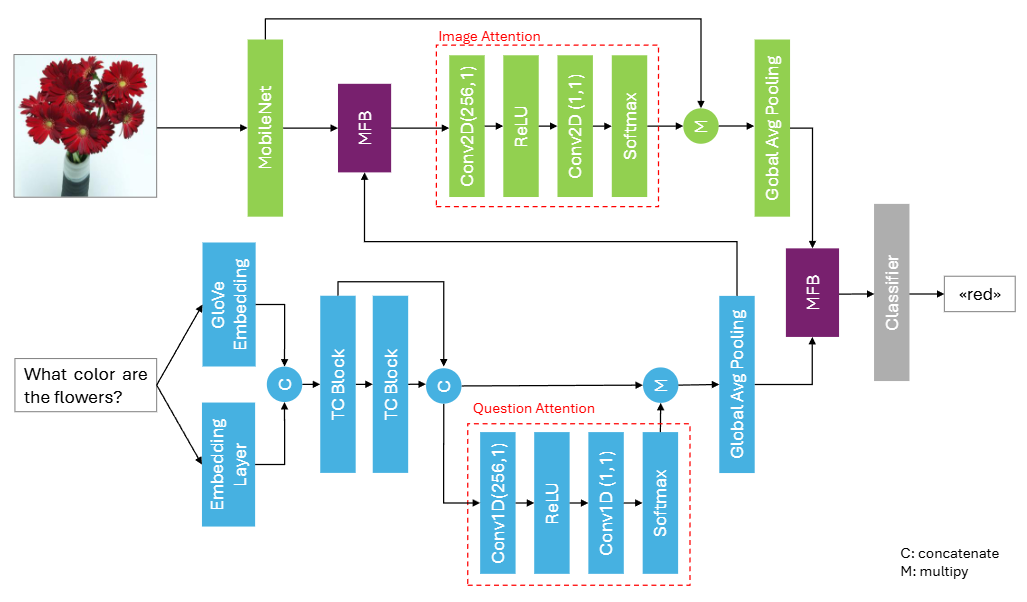
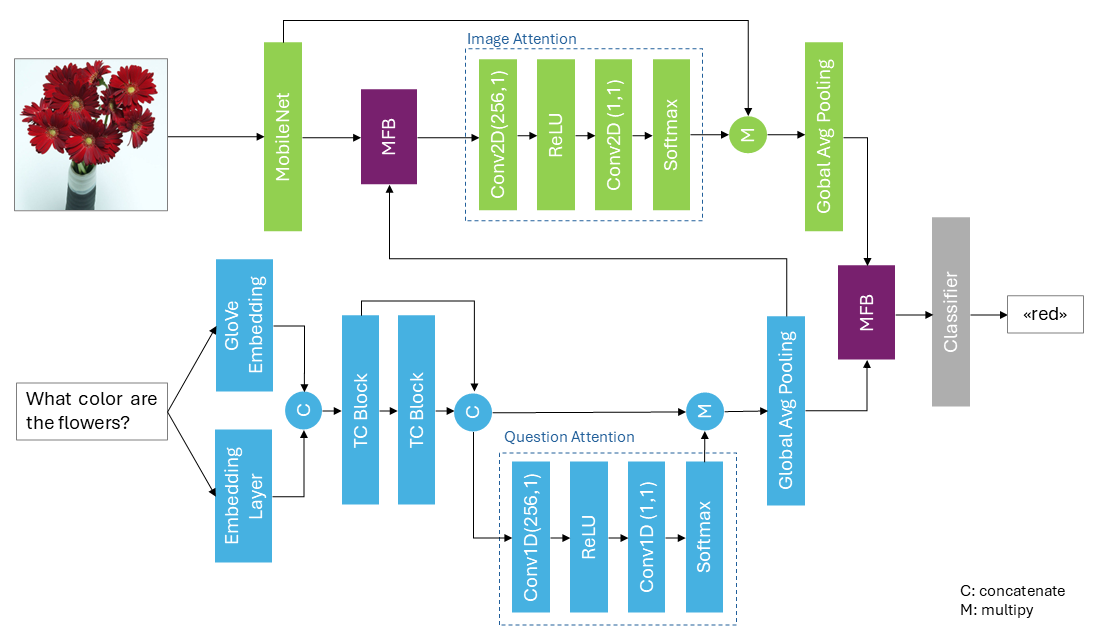
updated tutorial readme

diff --git a/README.md b/README.md
@@ -2,18 +2,19 @@
 
 ## 1. Introduction
 
-This repository provides a hands-on tutorial that shows you how to design, train, and evaluate **Visual Question Answering (VQA)** models for **resource-constrained edge devices**, specifically the **STM32MP2 platform**.
+This repository provides a hands-on tutorial that shows you how to design, train, and evaluate **Visual Question Answering (VQA)** models for **resource-constrained edge devices**, specifically the **STM32MP2 MPU**.
 
 **VQA** is a task at the intersection of computer vision and natural language processing: given an **image** and a **natural language question** about it, the model must generate the correct **answer**. VQA has many real-world applications, such as accessibility tools for visually impaired users and smart assistants that understand visual content. However, most state-of-the-art VQA models are **large and resource-hungry**, making them unsuitable for **edge devices**.
 
-The models in this tutorial are implemented in Keras, optimized for TensorFlow Lite, and designed to leverage the STM32MP2 NPU for efficient inference.
+The models in this tutorial are implemented in Keras 3.9, optimized for TensorFlow Lite, and designed to leverage the STM32MP2 NPU for efficient inference.
 
 This README is structured as follows:
 
 - [**Section 2**](#2-quickstart): Quickstart (inference in 3 steps)
 - [**Section 3**](#3-tutorial-vqa-on-edge-devices): Tutorial (models, dataset, training and evaluation)
 - [**Section 4**](#4-usage-guide): Usage Guide
-- [**Section 5**](#5-configuration-and-advanced-options): Configuration and Advanced Options
+- [**Section 5**](#5-performance-testing-on-stm32mp2): Performance Testing on STM32MP2
+- [**Section 6**](#6-configuration-and-advanced-options): Configuration and Advanced Options
 
 ---
 
@@ -26,14 +27,23 @@ This README is structured as follows:
 
 ## 2. Quickstart
 
-Try inference in 3 steps with the MFB + Attention pre-trained modelS:
+Try inference in 3 steps with the MFB + Attention pre-trained models:
 
 1. Clone the repo and install dependencies
+
+(Optional) create a separate Conda environment:
+
+```bash
+conda create --name tutorialVQAenv python=3.9
+conda activate VQAenv
+pip install --upgrade pip
+```
 
 ```bash
 git clone https://github.com/GloriaGio/vqa-stm32mp2.git
 cd vqa-stm32mp2
 pip install -r requirements.txt
+mkdir vqa_dataset resources
 ```
 
 2. Download a pretrained model (MFB + Attention)
@@ -45,9 +55,19 @@ unzip outputs/MFBAttention.zip -d outputs/
 
 3. Run inference on a sample image
 
+<p align="center">
+<img src="Images/COCO_val2014_000000002006.jpg" alt="SampleImage" width="330"/>
+</p>
+
+_Figure 1. Sample image from the VQAv2 validation set._
+
 ```bash
 python inference.py --model-dir MFBAttention --question "What is this?" --image-path ./Images/COCO_val2014_000000002006.jpg
 ```
+
+- Expected answer: `bus`
+- **Change the question:** replace the text after --question with your own question (for example: `"What color is the vehicle?"` -> `purple`, `"Which country is this?"` -> `england`, `"How many people are there?"` -> `2`).
+- **Change the image:** replace the path after --image-path with the path to your desired image.
 
 ### 2.1 Repository Structure
 
@@ -76,9 +96,9 @@ vqa-stm32mp2/
 
 ### 3.1 Model Architectures
 
-The implemented models are based on the architectures proposed by [**Yu et al. (2017)**](https://openaccess.thecvf.com/content_iccv_2017/html/Yu_Multi-Modal_Factorized_Bilinear_ICCV_2017_paper.html): **MFB Baseline**, **MFB + Attention**, **MFB + CoAttention**
+The implemented models are based on the architectures proposed by [**Yu et al. (2017)**](https://openaccess.thecvf.com/content_iccv_2017/html/Yu_Multi-Modal_Factorized_Bilinear_ICCV_2017_paper.html): **MFB Baseline**, **MFB + Attention**, **MFB + CoAttention**. These models use MFB (Multi-modal Factorized Bilinear pooling) to fuse visual and textual features, exploring different strategies to integrate attention.
 
-The original architectures were modified to run efficiently on the STM32MP2 platform, taking advantage of its NPU:
+The original architectures were modified to run efficiently on the STM32MP2 MPU, taking advantage of its NPU:
 
 - **ResNet-152 → MobileNet V3 Large**
   - Lighter, optimized for edge devices.
@@ -91,12 +111,12 @@ The original architectures were modified to run efficiently on the STM32MP2 plat
 
 Additional improvements:
 
-- **Word embeddings**: concatenation of **pretrained GloVe embeddings** and **learned embeddings**
+- **Word embeddings**: concatenation of **pretrained GloVe embeddings** (Global Vectors for Word Representation, a method to capture semantic meaning of words; [learn more](https://nlp.stanford.edu/projects/glove/)) and **learned embeddings**
   - Introduced to improve semantic representation and boost model performance.
 
 ![MFBCoAttention Architecture](Images/MFBCoAttention.png)
 
-_Figure 2. Optimized **MFB with Co-Attention network**. The **MFB with Attention** and **MFB Baseline** variants are derived by removing, respectively, the question attention block, and both the question and image attention blocks along with the first MFB module._
+_Figure 2. This figure shows the optimized **MFB with Co-Attention network**. The **MFB with Attention** variant is obtained by removing the question attention block from this architecture. The **MFB Baseline** variant is obtained by removing both the question and image attention block and the first MFB module._
 
 The folder `models/` contains the file `vqa_models.py`, which defines the implemented model architectures:
 
@@ -104,12 +124,20 @@ The folder `models/` contains the file `vqa_models.py`, which defines the implem
 - `MFB_Attention(...)`: Keras implementation of the modified **MFB + Attention** model.
 - `MFB_CoAttention(...)`: Keras implementation of the modified **MFB + CoAttention** model.
 
-Each function returns a complete **Keras model** (`tf.keras.Model`), with layers and parameters defined based on the provided configuration. These functions show the **exact Keras implementation** of each model.
+Each function returns a complete **Keras model** (`tf.keras.Model`), with layers and parameters defined based on the provided configuration. These functions show the **exact Keras 3.9 implementation** of each model.
+
+To see the model summary, first start the Python interpreter in your terminal:
 
 ```bash
+python
+```
+
+Then, in the Python prompt, run the following commands:
+
+```python
 from models.vqa_models import MFB_Attention
-model = MFB_Attention()
-model.summary()
+model = MFB_Attention() # Instantiate the model (pretrained MobileNetV3 Large weights will be downloaded and stored in ~/.keras/models)
+model.summary() # Print the model summary
 ```
 
 ### 3.2 Dataset and Preprocessing
@@ -140,14 +168,32 @@ The folder `data/` contains everything related to dataset handling and preproces
 - **Dataset loading.**
   The function `get_vqav2(...)` in `dataset.py` loads the official VQAv2 JSON files into Pandas DataFrames and applies answer normalization.
 
+Before running the code, download the VQAv2 JSON files for training:
+
+```bash
+wget "https://cvmlp.s3.amazonaws.com/vqa/mscoco/vqa/v2_Questions_Train_mscoco.zip" -O vqa_dataset/v2_Questions_Train_mscoco.zip
+unzip vqa_dataset/v2_Questions_Train_mscoco.zip -d vqa_dataset/
+wget "https://cvmlp.s3.amazonaws.com/vqa/mscoco/vqa/v2_Annotations_Train_mscoco.zip" -O vqa_dataset/v2_Annotations_Train_mscoco.zip
+unzip vqa_dataset/v2_Annotations_Train_mscoco.zip -d vqa_dataset/
+```
+
+Then, start the Python interpreter in your terminal
+
+```bash
+python
+```
+
+At the Python prompt, run the following commands:
+
 ```python
 from data.dataset import get_vqav2
 from pathlib import Path
 
-split = "train2014" # ("val2014" to get the validation set)
+
+split = "train2014" # Load the training split
 dataset_path = Path("vqa_dataset")
-df_train = get_vqav2(dataset_path, split=split)
-print(df_train.columns)
+df_train = get_vqav2(dataset_path, split=split) # Load the dataset into a Pandas DataFrame
+print(df_train.columns) # Inspect the DataFrame columns
 ```
 
 - **Data generators.**
@@ -198,7 +244,7 @@ The file`train/trainer.py` provides two functions for model training:
 
 Both functions handle validation during training and return a trained model.
 
-The entire training pipeline is handled by `main_train.py`: it loads data and reduces answers (top 1000 most frequent ones), builds custom generators, creates the model, trains from scratch or with KD, and saves the trained model along with preliminary performance.
+The entire training pipeline is handled by `main_train.py`: it loads data and reduces answers (top 1000 most frequent ones), builds custom generators, creates the model, trains from scratch or with KD, and saves the trained model along with used configuration and preliminary performance.
 
 ### 3.4 Evaluation and Results
 
@@ -221,7 +267,7 @@ The entire evaluation pipeline is handled by `main_eval.py`: it loads the data a
 | MFB + CoAtt. | 51.2M   | 56.4        | 76.9       | 36.8       | 46.1      |
 
 Results were obtained using the knowledge distillation (KD) setup with BEiT-3 as teacher (see [Section 3.3](#33-training-procedure)).
-The best-performing model is **MFB + Attention**, which was then deployed on the STM32MP2 platform.
+The best-performing model is **MFB + Attention**, which was then deployed on the STM32MP2 MPU.
 
 ### 3.5 Deployment Analysis
 
@@ -238,12 +284,21 @@ These results show that **MFB + Attention** runs efficiently on the STM32MP2, wi
 
 ### 4.1 Installation
 
+(Optional) create a separate Conda environment:
+
+```bash
+conda create --name tutorialVQAenv python=3.9
+conda activate VQAenv
+pip install --upgrade pip
+```
+
 Clone the repository and install the required Python packages:
 
 ```bash
 git clone https://github.com/GloriaGio/vqa-stm32mp2.git
 cd vqa-stm32mp2
 pip install -r requirements.txt
+mkdir vqa_dataset resources
 ```
 
 #### Using the provided trained models
@@ -277,9 +332,9 @@ Before running training or evaluation, download and place the required external 
 
 #### 1. VQAv2 Dataset
 
-Download the dataset from the [VQAv2 official website](https://visualqa.org/download.html).
+Download the VQAv2 dataset from the [official website](https://visualqa.org/download.html). The files will be stored in the `vqa_dataset` folder:
 
-**Questions**
+- **Questions** (training and validation):
 
 ```bash
 wget "https://cvmlp.s3.amazonaws.com/vqa/mscoco/vqa/v2_Questions_Train_mscoco.zip" -O vqa_dataset/v2_Questions_Train_mscoco.zip
@@ -288,7 +343,7 @@ wget "https://cvmlp.s3.amazonaws.com/vqa/mscoco/vqa/v2_Questions_Val_mscoco.zip"
 unzip vqa_dataset/v2_Questions_Val_mscoco.zip -d vqa_dataset/
 ```
 
-**Annotations**
+- **Annotations** (training and validation):
 
 ```bash
 wget "https://cvmlp.s3.amazonaws.com/vqa/mscoco/vqa/v2_Annotations_Train_mscoco.zip" -O vqa_dataset/v2_Annotations_Train_mscoco.zip
@@ -297,19 +352,23 @@ wget "https://cvmlp.s3.amazonaws.com/vqa/mscoco/vqa/v2_Annotations_Val_mscoco.zi
 unzip vqa_dataset/v2_Annotations_Val_mscoco.zip -d vqa_dataset/
 ```
 
-**Images**
+- **Images**
+
+⚠ Training images are large (~13.5 GB)
 
 ```bash
 wget "http://images.cocodataset.org/zips/train2014.zip" -O vqa_dataset/train2014.zip
 unzip vqa_dataset/train2014.zip -d vqa_dataset/
 ```
 
+⚠ Validation images are large (~6.6 GB)
+
 ```bash
 wget "http://images.cocodataset.org/zips/val2014.zip" -O vqa_dataset/val2014.zip
 unzip vqa_dataset/val2014.zip -d vqa_dataset/
 ```
 
-**Final structure**
+**Folder structure after extraction:**
 
 ```
 vqa-stm32mp2/vqa_dataset/
@@ -323,7 +382,7 @@ vqa-stm32mp2/vqa_dataset/
 
 #### 2. GloVe Embeddings
 
-Download GloVe embeddings (i.e., `glove.6B.zip`) from [the official site](https://nlp.stanford.edu/projects/glove/):
+Download GloVe embeddings (i.e., `glove.6B.zip`) from [the official website](https://nlp.stanford.edu/projects/glove/):
 
 ```bash
 wget "https://nlp.stanford.edu/data/glove.6B.zip" -O resources/glove.6B.zip
@@ -361,27 +420,32 @@ vqa-stm32mp2/resources/teacher_logits/
 **With Knowledge Distillation**
 
 ```bash
-python main_train.py --model-arch MFBBaseline --batch-size 32
+python main_train.py --model-arch MFBBaseline --num-epochs 10 --batch-size 32
 ```
 
 **From scratch**
 
+➡ Use this command if you do NOT have teacher logits!
+
 ```bash
-python main_train.py --model-arch MFBBaseline --batch-size 32 --disable-KD
+python main_train.py --model-arch MFBBaseline --disable-KD --num-epochs 10  --batch-size 32
 ```
 
 Arguments:
 
 - `--model-arch`: choose the architecture (`MFBBaseline`, `MFBAttention`, or `MFBCoAttention`)
-- `--batch-size`: set the batch size (default: 32).
+- `--num-epochs`: number of training epochs (default: 10)
+- `--batch-size`: batch size for training (default: 32)
 
-After training, a new folder will appear in `outputs/` containing:
+After training, a new folder will appear in `outputs/`. Its name indicates the model architecture used and the date and time when training was started (to avoid overwriting previous runs). The folder contains:
 
 - the trained model (`.keras` format),
 - the training configuration file,
 - JSON file with preliminary performance metrics (training/validation accuracy and loss on filtered dataset).
 
 ### 4.4 Evaluation
+
+⚠ Make sure you download the VQAv2 dataset before evaluation.
 
 Evaluate a trained model:
 
@@ -416,17 +480,39 @@ Arguments:
 
 ### 4.6 TFLite Conversion
 
+⚠ Make sure you download the VQAv2 dataset before conversion.
+
 Convert a trained Keras model to TensorFlow Lite with per-tensor quantization:
 
 ```bash
-python convert.py --model-dir MFBBaseline
+python convert_to_tflite.py --model-dir MFBBaseline
 ```
 
 The .tflite model will be saved in the same folder as the original model.
 
 ---
 
-## 5. Configuration and Advanced Options
+## 5. Performance Testing on STM32MP2
+
+You can test and benchmark the trained VQA models on the STM32MP2 MPU via the [ST Edge AI Developer Cloud](https://stedgeai-dc.st.com/home), which lets you execute models on real hardware without needing a physical board.
+
+Steps:
+
+1. Upload your model
+   - Use the `.tflite` model generated in [Section 4.6](#46-tflite-conversion).
+   - Place it in the Developer Cloud workspace and select **Start**.
+2. Select the **STM32 MPUs platform**
+   - Skip the quantization step.
+3. Enable optimization
+   - Select the **Optimize** option to leverage the NPU and improve inference time.
+4. **Start Benchmarking on STM32MP257F-EV1**
+   - Make sure to use the NPU selecting it in advanced setting ⚙
+   - Record the inference time for your model.
+   - Compare performance using different configurations: NPU, 1 CPU core, 2 CPU cores
+
+---
+
+## 6. Configuration and Advanced Options
 
 All training and evaluation settings are stored in the [`config.json`](config.json) file located in the root of the repository.
 This file is divided into three sections: model, training, and paths.
@@ -439,7 +525,7 @@ By default, the training scripts load parameters from `config.json`.
 
 ⚠ Command-line arguments (e.g. `--model-arch`, `--epochs`) will override the corresponding values in `config.json`.
 
-### 5.1 Model Parameters
+### 6.1 Model Parameters
 
 - `model_architecture`: VQA model architecture. Options: `MFBBaseline`, `MFBAttention`, `MFBCoAttention`.
 - `max_length`: sequence length for tokenized questions (padded or truncated to `max_length`).
@@ -459,7 +545,7 @@ By default, the training scripts load parameters from `config.json`.
 - `embedding_dim`: dimension of the word embeddings (applies to both GloVe and learned embeddings).
 - `dropout_rate`: dropout rate applied during training.
 
-### 5.2 Training parameters
+### 6.2 Training parameters
 
 - `num_epochs`: number of training epochs.
 - `lr`: learning rate.
